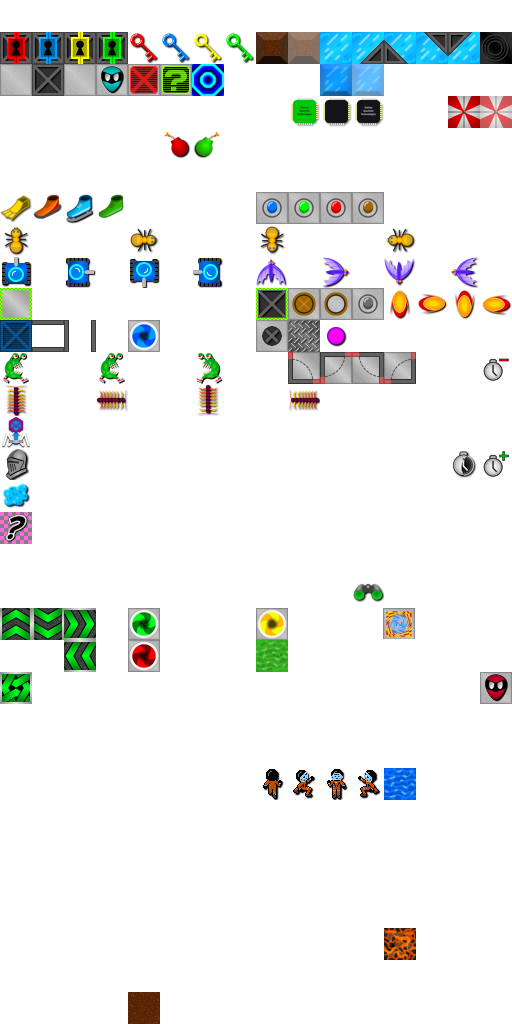
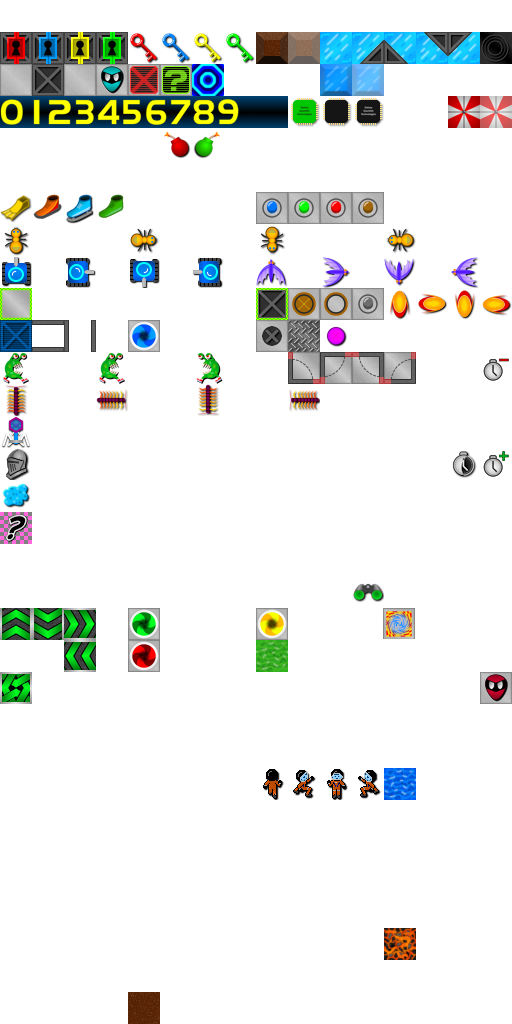
Added digit display, sprites

Changed region(s): [[0.0, 0.0938, 0.5625, 0.125]]

diff --git a/screens/GameplayScreen/GameplayScreen.cs b/screens/GameplayScreen/GameplayScreen.cs
@@ -30,6 +30,10 @@ public partial class GameplayScreen : Node
 
 	private Sprite2D AcceptingInput;
 
+	private DigitDisplay ChipCountDisplay;
+
+	private DigitDisplay TimerDisplay;
+
 	#region Godot Overrides
 
 	public override void _Ready()
@@ -51,9 +55,14 @@ public partial class GameplayScreen : Node
 			HintLabel = (Label)GetNode(nameof(HintLabel));
 			HintLabel.Visible = false;
 
+			ChipCountDisplay = (DigitDisplay)GetNode(nameof(ChipCountDisplay));
+
+			TimerDisplay = (DigitDisplay)GetNode(nameof(TimerDisplay));
+
 			GameData.LoadCurrentLevel();
 			HintLabel.Text = GameData.Level.Hint;
 			GameData.Level.Timer = GameData.Map.TimeLimit + 0.99999;
+			UpdateLabels();
 
 			DebugDisplay = (Node2D)GetNode(nameof(DebugDisplay));
 			ChipTick = (Label)DebugDisplay.GetNode(nameof(ChipTick));
@@ -85,13 +94,16 @@ public partial class GameplayScreen : Node
 
 		GameData.Level.ConfusionTimer = Mathf.Max(GameData.Level.ConfusionTimer - delta, 0);
 		CheckForInitialPlayerInput();
-		UpdateDebugUI();
-		CheckPlayerStatus();
-		UpdateTimer(delta);
-		UpdateLabels();
-		if(false == DialogWindow2.Visible && false == string.IsNullOrEmpty(GameData.Level.DeathMessage))
+		if(GameData.Level.ProcessMobs)
 		{
-			OnPlayerDeath();
+			UpdateDebugUI();
+			CheckPlayerStatus();
+			UpdateTimer(delta);
+			UpdateLabels();
+			if(false == DialogWindow2.Visible && false == string.IsNullOrEmpty(GameData.Level.DeathMessage))
+			{
+				OnPlayerDeath();
+			}
 		}
 	}
 
@@ -117,8 +129,15 @@ public partial class GameplayScreen : Node
 	private void UpdateLabels()
 	{
 		LevelName.Text = GameData.Level.Name;
-		ChipCount.Text = $"Chips Remaining: {Mathf.Max(GameData.Level.ChipsRequired - GameData.Level.ChipsCollected, 0)}";
-		Timer.Text = $"Time: {(int)GameData.Level.Timer}";
+
+		int chipsRemaining = Mathf.Max(GameData.Level.ChipsRequired - GameData.Level.ChipsCollected, 0);
+		ChipCountDisplay.SetValue(chipsRemaining);
+
+		int? timer = (GameData.Map.TimeLimit == 0)
+			? null
+			: (int)GameData.Level.Timer;
+		TimerDisplay.SetValue(timer);
+
 		StepOffset.Text = GameData.Level.SteppingOffset switch
 		{
 			0 => "Odd",
@@ -133,7 +152,7 @@ public partial class GameplayScreen : Node
 
 		var currentTile = GameData.Map.GetTile2(GameData.Level.PlayerCoordinate);
 		HintLabel.Visible = (currentTile is HintTile2);
-    }
+	}
 
 
 	private void UpdateTimer(double delta)
@@ -196,8 +215,8 @@ public partial class GameplayScreen : Node
 			return;
 		}
 
-        var currentTile = GameData.Map.GetTile2(GameData.Level.PlayerCoordinate);
-        if (currentTile is ExitTile2) // It is assumed that a socket is blocking the exit, enforcing a chip requirement
+		var currentTile = GameData.Map.GetTile2(GameData.Level.PlayerCoordinate);
+		if (currentTile is ExitTile2) // It is assumed that a socket is blocking the exit, enforcing a chip requirement
 		{
 			GameData.OnLevelComplete();
 			DialogWindow2.ClearAllButtonEvents();
@@ -253,9 +272,9 @@ public partial class GameplayScreen : Node
 
 
 	private void RestartLevel()
-    {
-        DialogWindow2.HideDialog();
-        MapDisplay2.ClearChildren();
+	{
+		DialogWindow2.HideDialog();
+		MapDisplay2.ClearChildren();
 		GameData.Level.RestartCount++;
 		GameData.LoadCurrentLevel();
 		GameData.Level.Timer = GameData.Map.TimeLimit + 0.999999;
@@ -263,9 +282,9 @@ public partial class GameplayScreen : Node
 
 
 	private void OnExit()
-    {
-        DialogWindow2.HideDialog();
-        switch (GameData.GameMode)
+	{
+		DialogWindow2.HideDialog();
+		switch (GameData.GameMode)
 		{
 			case GameMode.Campaign:
 				GetTree().ChangeSceneToFile(GGConstants.ScenePaths.TitleMenu);

diff --git a/prefabs/DigitDisplay/DigitDisplay.cs b/prefabs/DigitDisplay/DigitDisplay.cs
@@ -1,0 +1,61 @@
+public partial class DigitDisplay : Node2D
+{
+	#region Child Nodes
+	
+	private AnimatedSprite2D[] Digits = new AnimatedSprite2D[3];
+	
+	#endregion
+	
+	public int? CurrentValue { get; private set; } = null;
+		
+	#region Godot Overrides
+	
+	public override void _Ready()
+	{
+		Digits[0] = (AnimatedSprite2D)GetNode("Hundreds");
+		Digits[1] = (AnimatedSprite2D)GetNode("Tens");
+		Digits[2] = (AnimatedSprite2D)GetNode("Ones");	
+	}
+	
+	#endregion
+	
+	
+	public void SetValue(int? value) 
+	{
+		if(value == CurrentValue)
+		{
+			return;
+		}
+		
+		CurrentValue = value;
+		Digits[0].Frame = 10;
+		Digits[1].Frame = 10;
+		Digits[2].Frame = 10;
+		if(false == value.HasValue)
+		{
+			return;
+		}
+		
+		string numberString = value.Value.ToString();
+		if(value.Value >= 1000)
+		{
+			numberString = numberString[^3..];
+		}
+		numberString = ("   " + numberString)[^3..];
+		
+		for(int i = 0; i < numberString.Length; i++)
+		{
+			switch(numberString[i])
+			{
+				case ' ':
+					Digits[i].Frame = 0;
+					break;
+					
+				default:
+					int digit = int.Parse(numberString[i].ToString());
+					Digits[i].Frame = digit;
+					break;
+			}	
+		}
+	}
+}
